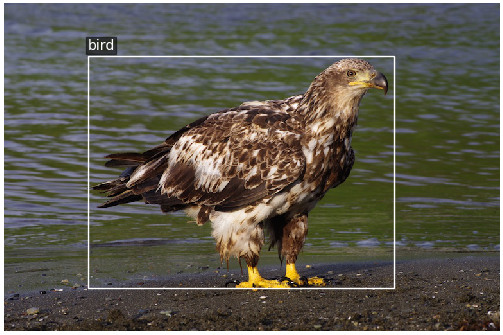
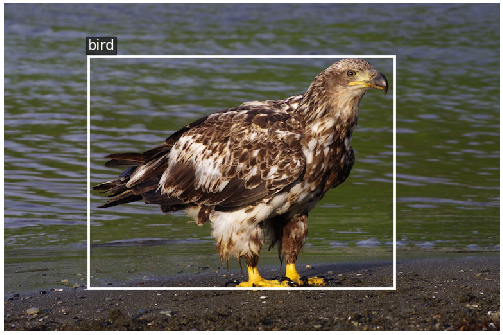
Clean up

Changed region(s): [[0.1491, 0.1493, 0.8052, 0.8657]]

diff --git a/models.py b/models.py
@@ -11,23 +11,77 @@ from PIL import Image
 from utils import *
 
 def parse_config(path):
-    """Parses the yolo-v3 layer configuration file and returns block definitions"""
+    """Parses the yolo-v3 layer configuration file and returns module definitions"""
     file = open(path, 'r')
     lines = file.read().split('\n')
     lines = [x for x in lines if x and not x.startswith('#')]
     lines = [x.rstrip().lstrip() for x in lines] # get rid of fringe whitespaces
-    blocks = []
+    module_defs = []
     for line in lines:
         if line.startswith('['):        # This marks the start of a new block
-            blocks.append({})           # re-init the block
-            blocks[-1]['type'] = line[1:-1].rstrip()
-            if blocks[-1]['type'] == 'convolutional':
-                blocks[-1]['batch_normalize'] = 0
+            module_defs.append({})           # re-init the block
+            module_defs[-1]['type'] = line[1:-1].rstrip()
+            if module_defs[-1]['type'] == 'convolutional':
+                module_defs[-1]['batch_normalize'] = 0
         else:
             key, value = line.split("=")
-            blocks[-1][key.rstrip()] = value.lstrip()
+            module_defs[-1][key.rstrip()] = value.lstrip()
 
-    return blocks
+    return module_defs
+
+def create_modules(module_defs):
+    """
+    Constructs module list of layer blocks from module configuration in module_defs
+    """
+    hyperparams = module_defs.pop(0)
+    output_filters = [int(hyperparams['channels'])]
+    module_list = nn.ModuleList()
+    for i, module_def in enumerate(module_defs):
+        modules = nn.Sequential()
+
+        if module_def['type'] == 'convolutional':
+            bn = int(module_def['batch_normalize'])
+            filters = int(module_def['filters'])
+            kernel_size = int(module_def['size'])
+            pad = (kernel_size - 1) // 2 if int(module_def['pad']) else 0
+            modules.add_module('conv_%d' % i, nn.Conv2d(in_channels=output_filters[-1],
+                                                        out_channels=filters,
+                                                        kernel_size=kernel_size,
+                                                        stride=int(module_def['stride']),
+                                                        padding=pad,
+                                                        bias=not bn))
+            if bn:
+                modules.add_module('batch_norm_%d' % i, nn.BatchNorm2d(filters))
+            if module_def['activation'] == 'leaky':
+                modules.add_module('leaky_%d' % i, nn.LeakyReLU(0.1, inplace=True))
+
+        elif module_def['type'] == 'upsample':
+            upsample = nn.Upsample(scale_factor=int(module_def['stride']), mode='bilinear')
+            modules.add_module('upsample_%d' % i, upsample)
+
+        elif module_def['type'] == 'route':
+            layers = [int(x) for x in module_def["layers"].split(',')]
+            filters = sum([output_filters[layer_i] for layer_i in layers])
+            modules.add_module('route_%d' % i, EmptyLayer())
+
+        elif module_def['type'] == 'shortcut':
+            filters = output_filters[int(module_def['from'])]
+            modules.add_module("shortcut_%d" % i, EmptyLayer())
+
+        elif module_def["type"] == "yolo":
+            anchor_idxs = [int(x) for x in module_def["mask"].split(",")]
+            # Extract anchors
+            anchors = [int(x) for x in module_def["anchors"].split(",")]
+            anchors = [(anchors[i], anchors[i+1]) for i in range(0, len(anchors),2)]
+            anchors = [anchors[i] for i in anchor_idxs]
+            # Define detection layer
+            yolo_layer = YOLOLayer(anchors, int(module_def['classes']), int(hyperparams['height']))
+            modules.add_module('yolo_%d' % i, yolo_layer)
+        # Register module list and number of output filters
+        module_list.append(modules)
+        output_filters.append(filters)
+
+    return hyperparams, module_list
 
 class EmptyLayer(nn.Module):
     """Placeholder for 'route' and 'shortcut' layers"""
@@ -44,136 +98,79 @@ class YOLOLayer(nn.Module):
         self.bbox_attrs = 5 + num_classes
         self.image_dim = image_dim
 
-    def forward(self, x, cuda=True):
+    def forward(self, x):
         batch_size = x.size(0)
-        x_dim = x.size(2)
-        stride =  self.image_dim // x_dim
+        grid_dim = x.size(2)
+        stride =  self.image_dim / grid_dim
 
-        prediction = x.view(batch_size, self.bbox_attrs * self.num_anchors, x_dim * x_dim)
+        prediction = x.view(batch_size, self.bbox_attrs * self.num_anchors, grid_dim * grid_dim)
         prediction = prediction.transpose(1, 2).contiguous()
-        prediction = prediction.view(batch_size, x_dim * x_dim * self.num_anchors, self.bbox_attrs)
+        prediction = prediction.view(batch_size, grid_dim * grid_dim * self.num_anchors, self.bbox_attrs)
 
         # Sigmoid
         prediction[:, :, 0] = torch.sigmoid(prediction[:, :, 0])    # Center X
         prediction[:, :, 1] = torch.sigmoid(prediction[:, :, 1])    # Center Y
         prediction[:, :, 4] = torch.sigmoid(prediction[:, :, 4])    # Object conf.
 
-        grid = np.arange(x_dim)
+        grid = np.arange(grid_dim)
         a, b = np.meshgrid(grid, grid)
 
         x_offset = torch.FloatTensor(a).view(-1, 1)
         y_offset = torch.FloatTensor(b).view(-1, 1)
 
-        if cuda:
+        if prediction.is_cuda:
             x_offset = x_offset.cuda()
             y_offset = y_offset.cuda()
 
-        x_y_offset = torch.cat((x_offset, y_offset), 1).repeat(1, self.num_anchors).view(-1, 2).unsqueeze(0)
         # Add offsets to center x and center y
+        x_y_offset = torch.cat((x_offset, y_offset), 1).repeat(1, self.num_anchors).view(-1, 2).unsqueeze(0)
         prediction[:, :, :2] += x_y_offset
 
         anchors = torch.FloatTensor([(a_h / stride, a_w / stride) for a_h, a_w in self.anchors])
-        if cuda:
+
+        if prediction.is_cuda:
             anchors = anchors.cuda()
 
         # Scale width and height by anchors
-        anchors = anchors.repeat(x_dim * x_dim, 1).unsqueeze(0)
+        anchors = anchors.repeat(grid_dim * grid_dim, 1).unsqueeze(0)
         prediction[:, :, 2:4] = torch.exp(prediction[:, :, 2:4]) * anchors
-        # Apply sigmoid to class scores
-        prediction[:, :, 5:self.bbox_attrs] = torch.sigmoid((prediction[:, :, 5:self.bbox_attrs]))
         # Rescale output dimension to image size
         prediction[:, :, :4] *= stride
+        # Apply sigmoid to class scores
+        prediction[:, :, 5:self.bbox_attrs] = torch.sigmoid((prediction[:, :, 5:self.bbox_attrs]))
 
         return prediction
 
-def create_modules(blocks):
-    """
-    Constructs module list of layer blocks from block configuration in 'blocks'
-    """
-    hyperparams = blocks.pop(0)
-    output_filters = [int(hyperparams['channels'])]
-    module_list = nn.ModuleList()
-    for i, block in enumerate(blocks):
-        modules = nn.Sequential()
-
-        if block['type'] == 'convolutional':
-            bn = int(block['batch_normalize'])
-            filters = int(block['filters'])
-            kernel_size = int(block['size'])
-            pad = (kernel_size - 1) // 2 if int(block['pad']) else 0
-            modules.add_module('conv_%d' % i, nn.Conv2d(in_channels=output_filters[-1],
-                                                        out_channels=filters,
-                                                        kernel_size=kernel_size,
-                                                        stride=int(block['stride']),
-                                                        padding=pad,
-                                                        bias=not bn))
-            if bn:
-                modules.add_module('batch_norm_%d' % i, nn.BatchNorm2d(filters))
-            if block['activation'] == 'leaky':
-                modules.add_module('leaky_%d' % i, nn.LeakyReLU(0.1, inplace=True))
-
-        elif block['type'] == 'upsample':
-            upsample = nn.Upsample(scale_factor=int(block['stride']), mode='bilinear')
-            modules.add_module('upsample_%d' % i, upsample)
-
-        elif block['type'] == 'route':
-            layers = [int(x) for x in block["layers"].split(',')]
-            filters = sum([output_filters[layer_i] for layer_i in layers])
-            modules.add_module('route_%d' % i, EmptyLayer())
-
-        elif block['type'] == 'shortcut':
-            filters = output_filters[int(block['from'])]
-            modules.add_module("shortcut_%d" % i, EmptyLayer())
-
-        elif block["type"] == "yolo":
-            mask = [int(x) for x in block["mask"].split(",")]
-            # Extract anchors corresponding to mask indices
-            anchors = [int(x) for x in block["anchors"].split(",")]
-            anchors = [(anchors[i], anchors[i+1]) for i in range(0, len(anchors),2)]
-            anchors = [anchors[i] for i in mask]
-            # Define detection layer
-            yolo_layer = YOLOLayer(anchors, int(block['classes']), int(hyperparams['height']))
-            modules.add_module('yolo_%d' % i, yolo_layer)
-        # Register module list and number of output filters
-        module_list.append(modules)
-        output_filters.append(filters)
-    return hyperparams, module_list
-
 
 class Darknet(nn.Module):
-    """YOLO-V3 object detection model"""
+    """YOLOv3 object detection model"""
     def __init__(self, config_path, img_size=416):
         super(Darknet, self).__init__()
-        self.blocks = parse_config(config_path)
-        self.hyperparams, self.module_list = create_modules(self.blocks)
+        self.module_defs = parse_config(config_path)
+        self.hyperparams, self.module_list = create_modules(self.module_defs)
         self.img_size = img_size
 
-    def forward(self, x, cuda=True):
+    def forward(self, x):
         detections = None
         outputs = []
-        for i, (module_def, module) in enumerate(zip(self.blocks, self.module_list)):
+        for i, (module_def, module) in enumerate(zip(self.module_defs, self.module_list)):
             if module_def['type'] in ['convolutional', 'upsample']:
                 x = module(x)
             elif module_def['type'] == 'route':
                 layer_i = [int(x) for x in module_def['layers'].split(',')]
-                if len(layer_i) == 1:    # Output
-                    x = outputs[layer_i[0]]
-                else:                   # Skip-connection
-                    x = torch.cat((outputs[layer_i[0]], outputs[layer_i[1]]), 1)
+                x = torch.cat([outputs[i] for i in layer_i], 1)
             elif module_def['type'] == 'shortcut':
                 layer_i = int(module_def['from'])
                 x = outputs[-1] + outputs[layer_i]
             elif module_def['type'] == 'yolo':
-                x = module[0](x, cuda)
-                # Add to detections
+                x = module(x)
                 detections = x if detections is None else torch.cat((detections, x), 1)
-
             outputs.append(x)
 
         return detections
 
     def load_weights(self, weights_path):
-        """Parses and copies the weights stored in 'weights_path' to the model"""
+        """Parses and loads the weights stored in 'weights_path'"""
 
         #Open the weights file
         fp = open(weights_path, "rb")
@@ -182,13 +179,13 @@ class Darknet(nn.Module):
         fp.close()
 
         ptr = 0
-        for i, (module_def, module) in enumerate(zip(self.blocks, self.module_list)):
+        for i, (module_def, module) in enumerate(zip(self.module_defs, self.module_list)):
             if module_def['type'] == 'convolutional':
                 conv_layer = module[0]
                 if module_def['batch_normalize']:
+                    # Load BN bias, weights, running mean and running variance
                     bn_layer = module[1]
-                    # Number of biases
-                    num_b = bn_layer.bias.numel()
+                    num_b = bn_layer.bias.numel() # Number of biases
                     # Bias
                     bn_b = torch.from_numpy(weights[ptr:ptr + num_b]).view_as(bn_layer.bias)
                     bn_layer.bias.data.copy_(bn_b)
@@ -206,15 +203,13 @@ class Darknet(nn.Module):
                     bn_layer.running_var.data.copy_(bn_rv)
                     ptr += num_b
                 else:
-                    # Number of biases
+                    # Load conv. bias
                     num_b = conv_layer.bias.numel()
-                    # Conv Bias
                     conv_b = torch.from_numpy(weights[ptr:ptr + num_b]).view_as(conv_layer.bias)
                     conv_layer.bias.data.copy_(conv_b)
-                    ptr = ptr + num_b
-                # Number of weights
+                    ptr += num_b
+                # Load conv. weights
                 num_w = conv_layer.weight.numel()
-                # Conv Weights
-                conv_w = torch.from_numpy(weights[ptr:ptr+num_w]).view_as(conv_layer.weight)
+                conv_w = torch.from_numpy(weights[ptr:ptr + num_w]).view_as(conv_layer.weight)
                 conv_layer.weight.data.copy_(conv_w)
-                ptr = ptr + num_w
+                ptr += num_w

diff --git a/utils.py b/utils.py
@@ -27,10 +27,11 @@ def bbox_iou(box1, box2):
     inter_rect_x2 =  torch.min(b1_x2, b2_x2)
     inter_rect_y2 =  torch.min(b1_y2, b2_y2)
     # Intersection area
-    inter_area = torch.clamp(inter_rect_x2 - inter_rect_x1 + 1, min=0) * torch.clamp(inter_rect_y2 - inter_rect_y1 + 1, min=0)
+    inter_area =    torch.clamp(inter_rect_x2 - inter_rect_x1 + 1, min=0) * \
+                    torch.clamp(inter_rect_y2 - inter_rect_y1 + 1, min=0)
     # Union Area
-    b1_area = (b1_x2 - b1_x1 + 1)*(b1_y2 - b1_y1 + 1)
-    b2_area = (b2_x2 - b2_x1 + 1)*(b2_y2 - b2_y1 + 1)
+    b1_area = (b1_x2 - b1_x1 + 1) * (b1_y2 - b1_y1 + 1)
+    b2_area = (b2_x2 - b2_x1 + 1) * (b2_y2 - b2_y1 + 1)
 
     iou = inter_area / (b1_area + b2_area - inter_area)
 
@@ -61,36 +62,30 @@ def non_max_suppression(prediction, num_classes, conf_thres=0.5, nms_thres=0.4):
         # Filter out confidence scores below threshold
         conf_mask = (image_pred[:, 4] >= conf_thres).squeeze()
         image_pred = image_pred[conf_mask]
-
         # If none are remaining => process next image
         if not image_pred.size(0):
             continue
-
         # Get score and class with highest confidence
         class_conf, class_pred = torch.max(image_pred[:, 5:5 + num_classes], 1,  keepdim=True)
         # Detections ordered as (x1, y1, x2, y2, obj_conf, class_conf, class_pred)
         detections = torch.cat((image_pred[:, :5], class_conf.float(), class_pred.float()), 1)
-        #Get the various classes detected in the image
-        unique_classes = torch.from_numpy(np.unique(detections[:, -1].data.cpu().numpy()))
-        for c in unique_classes:
-            #get the detections with one particular class
-            cls_mask = (detections[:, -1] == c)
-            detections_class = detections[cls_mask]
-            # sort the detections such that the entry with the maximum objectness
-            # confidence is at the top
+        # Iterate through all predicted classes
+        for c in detections[:, -1].unique():
+            # Get the detections with the particular class
+            detections_class = detections[detections[:, -1] == c]
+            # Sort the detections by maximum objectness confidence
             _, conf_sort_index = torch.sort(detections_class[:, 4], descending=True)
             detections_class = detections_class[conf_sort_index]
-
+            # Perform non-maximum suppression
             max_detections = []
             while detections_class.size(0):
                 # Get detection with highest confidence and save as max detection
-                max_detection = detections_class[0].unsqueeze(0)
-                max_detections.append(max_detection)
-                # If we're at the last detection stop
+                max_detections.append(detections_class[0].unsqueeze(0))
+                # Stop if we're at the last detection
                 if len(detections_class) == 1:
                     break
                 # Get the IOUs for all boxes with lower confidence
-                ious = bbox_iou(max_detection, detections_class[1:])
+                ious = bbox_iou(max_detections[-1], detections_class[1:])
                 # Remove detections with IoU >= NMS threshold
                 detections_class = detections_class[1:][ious < nms_thres]
 

diff --git a/test.py b/test.py
@@ -36,6 +36,7 @@ cuda = torch.cuda.is_available()
 # Set up model
 model = Darknet(opt.config_path, img_size=opt.img_size)
 model.load_weights(opt.weights_path)
+
 if cuda:
     model.cuda()
 
@@ -56,7 +57,7 @@ for batch_i, (img_paths, input_imgs) in enumerate(dataloader):
     input_imgs = Variable(input_imgs.type(Tensor))
 
     # Get detections
-    detections = model(input_imgs, cuda)
+    detections = model(input_imgs)
     detections = non_max_suppression(detections, 80, opt.conf_thres, opt.nms_thres)
 
     # Log progress
@@ -97,8 +98,9 @@ for batch_i, (img_paths, input_imgs) in enumerate(dataloader):
                 print ('\timage: %d' % i.item(), 'conf: %.5f' % cls_conf.item(), 'label: %s' % classes[int(cls_pred)])
 
                 # Create a Rectangle patch
-                bbox = patches.Rectangle((x1, y1), box_w, box_h, linewidth=1,
-                                        edgecolor='white', facecolor='none')
+                bbox = patches.Rectangle((x1, y1), box_w, box_h, linewidth=2,
+                                        edgecolor='white',
+                                        facecolor='none')
                 # Add the bbox to the plot
                 ax.add_patch(bbox)
                 # Add label
